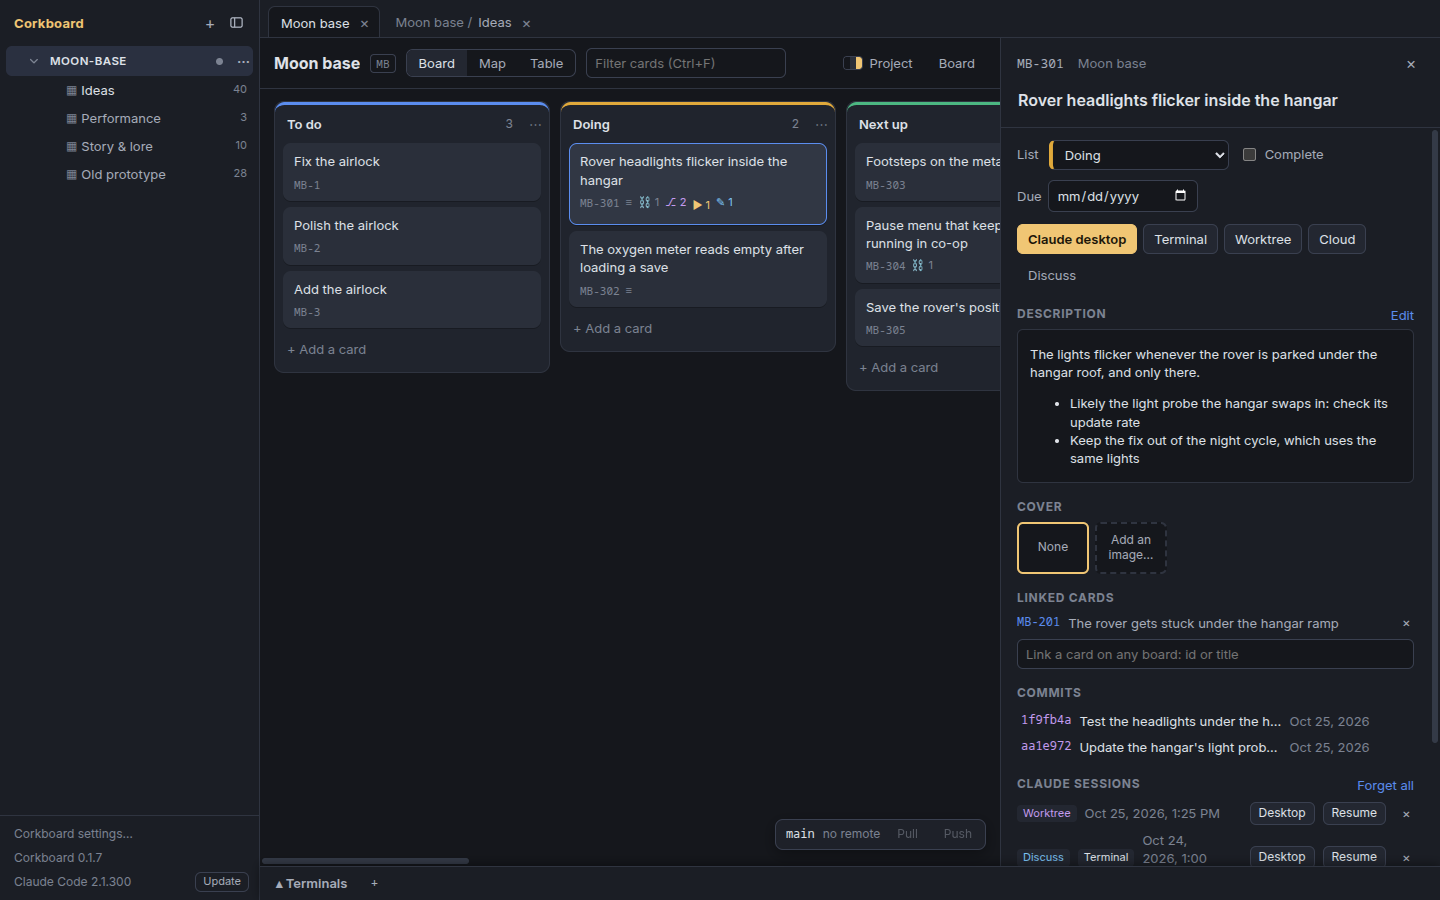
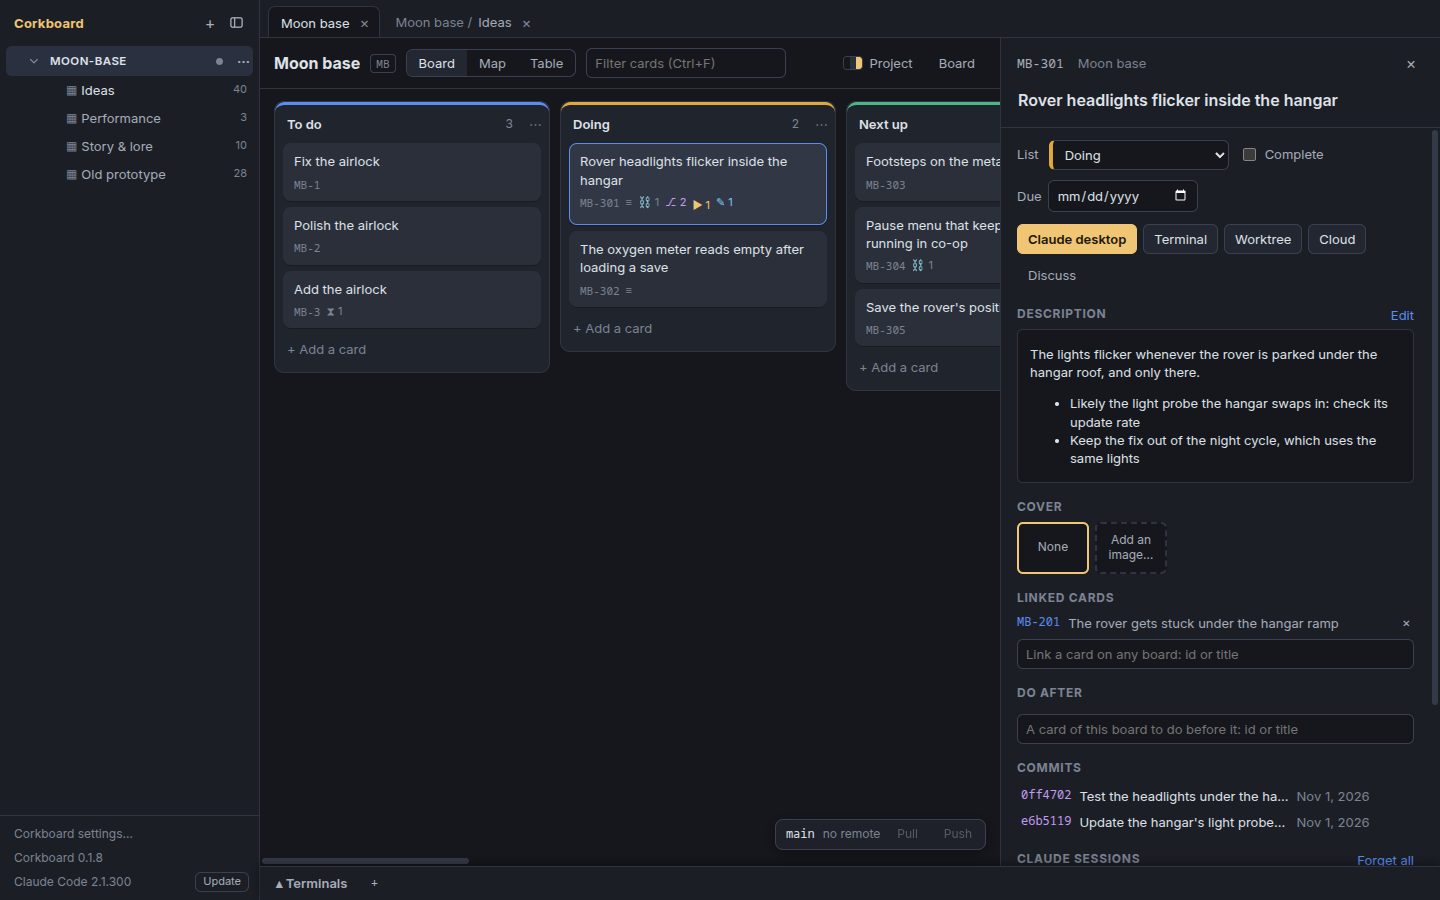
Edit a card's after: in its drawer, and draw the order on the map
The drawer gets *Do after* under the linked cards: the cards of the same board to do before this
one, each with its title and whether it's done, × to take it out, and a picker that offers only
cards of the board and none that waits on this one, since the order would loop. A card waiting on
cards that aren't done shows ⧗ and their number on its face.

The map draws an order as a dashed arrow, in the accent colour, from the card to do first to the
card that waits on it, in place of a link between the same two cards. Deleted, the arrow takes the
order away, one undo step like an unlink.

The screenshots are retaken: the fixture's To do now holds a card that waits on another.

Card: CORK-117

Changed region(s): [[0.6875, 0.7467, 1.0, 0.9644]]

diff --git a/src/renderer/src/components/MapView.tsx b/src/renderer/src/components/MapView.tsx
@@ -305,6 +305,15 @@ function MapCanvas({ board, matches }: { board: LoadedBoard; matches: (c: Card) 
     const ids = new Set(visible.map(c => c.id))
     const seen = new Set<string>()
     const out: Edge[] = []
+    // An order is drawn as an arrow from the card to do first; a link between the same two cards
+    // would lie under it, so the arrow stands for both.
+    for (const card of visible) {
+      for (const first of card.after) {
+        if (!ids.has(first) || first === card.id) continue
+        seen.add([card.id, first].sort().join('~'))
+        out.push({ id: `after:${first}>${card.id}`, source: first, target: card.id, type: 'order' })
+      }
+    }
     for (const card of visible) {
       for (const link of card.links) {
         if (!ids.has(link)) continue
@@ -446,7 +455,7 @@ function MapCanvas({ board, matches }: { board: LoadedBoard; matches: (c: Card) 
           ))}
         <span className="spacer" />
         <span className="muted hint">
-          Double-click: a new card · drag a card's dot onto a card to link it, onto empty space for a new linked card ·
+          Double-click: a new card · drag a card's dot onto a card to link it, onto empty space for a new linked card · dashed arrows: do after ·
           right-click a backdrop to lay it out
         </span>
       </div>
@@ -463,9 +472,15 @@ function MapCanvas({ board, matches }: { board: LoadedBoard; matches: (c: Card) 
           onConnect={(c: Connection) => c.source && c.target && link(c.source, c.target)}
           onConnectEnd={onConnectEnd}
           onEdgesDelete={gone => {
-            // Every link deleted at once is one step, each card patched once.
+            // Every link or order deleted at once is one step, each card patched once.
             const links = new Map<string, string[]>()
+            const after = new Map<string, string[]>()
             for (const edge of gone) {
+              if (edge.type === 'order') {
+                const was = after.get(edge.target) ?? board.cards.find(x => x.id === edge.target)?.after
+                if (was?.includes(edge.source)) after.set(edge.target, was.filter(a => a !== edge.source))
+                continue
+              }
               for (const [a, b] of [
                 [edge.source, edge.target],
                 [edge.target, edge.source],
@@ -474,8 +489,18 @@ function MapCanvas({ board, matches }: { board: LoadedBoard; matches: (c: Card) 
                 if (was?.includes(b)) links.set(a, was.filter(l => l !== b))
               }
             }
-            const label = gone.length === 1 ? `unlink ${gone[0].source} and ${gone[0].target}` : `unlink ${gone.length} pairs`
-            change(label, null, [...links].map(([id, next]) => ({ id, patch: { links: next } })))
+            const one = gone.length === 1 ? gone[0] : undefined
+            const label = !one
+              ? `unlink ${gone.length} pairs`
+              : one.type === 'order'
+                ? `take ${one.target} out of the order after ${one.source}`
+                : `unlink ${one.source} and ${one.target}`
+            const ids = new Set([...links.keys(), ...after.keys()])
+            const patch = (id: string): Partial<Card> => ({
+              ...(links.has(id) ? { links: links.get(id) } : {}),
+              ...(after.has(id) ? { after: after.get(id) } : {}),
+            })
+            change(label, null, [...ids].map(id => ({ id, patch: patch(id) })))
           }}
           onNodeDoubleClick={(_, node) => node.type === 'card' && actions.openCard(board.path, node.id)}
           onNodeClick={(e, node) => {
@@ -643,6 +668,31 @@ function FloatingEdge({ id, source, target, selected }: EdgeProps) {
   )
 }
 
+/** An order: a dashed arrow from the card to do first to the card that waits on it. */
+function OrderEdge({ id, source, target, selected }: EdgeProps) {
+  const s = useInternalNode(source)
+  const t = useInternalNode(target)
+  if (!s || !t) return null
+  const [sx, sy] = borderPoint(s, t)
+  const [tx, ty] = borderPoint(t, s)
+  const [path] = getStraightPath({ sourceX: sx, sourceY: sy, targetX: tx, targetY: ty })
+  const length = Math.hypot(tx - sx, ty - sy) || 1
+  const [ux, uy] = [(tx - sx) / length, (ty - sy) / length]
+  const size = selected ? 11 : 9
+  const head = `M ${tx} ${ty} L ${tx - ux * size - uy * size * 0.55} ${ty - uy * size + ux * size * 0.55} L ${tx - ux * size + uy * size * 0.55} ${ty - uy * size - ux * size * 0.55} Z`
+  return (
+    <>
+      <BaseEdge
+        id={id}
+        path={path}
+        interactionWidth={14}
+        style={{ stroke: 'var(--accent)', strokeWidth: selected ? 2.5 : 1.6, strokeDasharray: '6 4' }}
+      />
+      <path className="order-head" d={head} style={{ fill: 'var(--accent)' }} />
+    </>
+  )
+}
+
 function borderPoint(node: InternalNode, other: InternalNode): [number, number] {
   const w = (node.measured.width ?? NODE_W) / 2
   const h = (node.measured.height ?? 50) / 2
@@ -658,4 +708,4 @@ function borderPoint(node: InternalNode, other: InternalNode): [number, number] 
 }
 
 const NODE_TYPES = { card: CardNodeView, area: AreaNodeView }
-const EDGE_TYPES = { floating: FloatingEdge }
+const EDGE_TYPES = { floating: FloatingEdge, order: OrderEdge }

diff --git a/src/renderer/src/components/CardDetail.tsx b/src/renderer/src/components/CardDetail.tsx
@@ -7,6 +7,8 @@ import { cardImages, imageUrl, insertAt } from '@shared/images'
 import { imageFiles, saveImage, saveImages } from '../images'
 import { discussCards, tackleCards } from '../tackle'
 import { normalizeKey } from '@shared/project'
+import { isDivider } from '@shared/cardfile'
+import { findCycle } from '@shared/tackleorder'
 import { actions, api, commitsFor, listColor, localTime, projectIdOf, useStore } from '../state'
 import { openContextMenu } from './ContextMenu'
 
@@ -340,6 +342,44 @@ function Drawer({ board, card }: { board: LoadedBoard; card: Card }) {
           />
         </section>
 
+        <section className="after-section">
+          <h3>Do after</h3>
+          <div className="links">
+            {card.after.map(id => {
+              const before = board.cards.find(c => c.id === id)
+              const done = !!before && (before.complete || (!!board.meta.flow?.done && before.list === board.meta.flow.done))
+              return (
+                <span key={id} className={`link-chip${done ? ' done' : ''}`}>
+                  <button className="link" onClick={() => before && actions.openCard(board.path, id)}>
+                    {id}
+                  </button>
+                  <span className="link-title">
+                    {before?.title ?? 'not on this board'}
+                    {done && <span className="muted"> · done</span>}
+                  </span>
+                  <button
+                    className="icon-button small"
+                    aria-label={`Not after ${id}`}
+                    onClick={() => save({ after: card.after.filter(a => a !== id) })}
+                  >
+                    ×
+                  </button>
+                </span>
+              )
+            })}
+          </div>
+          <LinkPicker
+            placeholder="A card of this board to do before it: id or title"
+            menuFocus={false}
+            index={board.cards
+              // Never one already there, nor one that waits on this card: that order would loop.
+              .filter(c => c.id !== card.id && !c.archived && !isDivider(c) && !card.after.includes(c.id))
+              .filter(c => !findCycle(board.cards.map(x => (x.id === card.id ? { id: x.id, after: [...card.after, c.id] } : x))))
+              .map(c => ({ id: c.id, title: c.title, boardPath: board.path, boardTitle: board.meta.title }))}
+            onPick={id => save({ after: [...card.after, id] })}
+          />
+        </section>
+
         <section>
           <h3>Commits</h3>
           {commits.length ? (
@@ -534,16 +574,27 @@ async function openLinked(id: string, entry?: IndexEntry) {
   actions.openCard(entry.boardPath, id)
 }
 
-function LinkPicker({ index, onPick }: { index: IndexEntry[]; onPick: (id: string) => void }) {
+function LinkPicker({
+  index,
+  onPick,
+  placeholder = 'Link a card on any board: id or title',
+  menuFocus = true,
+}: {
+  index: IndexEntry[]
+  onPick: (id: string) => void
+  placeholder?: string
+  /** Whether the card menu's *Link to a card* focuses it: the links' picker, not the order's. */
+  menuFocus?: boolean
+}) {
   const [query, setQuery] = useState('')
   const focusLinks = useStore(s => s.focusLinks)
   const input = useRef<HTMLInputElement>(null)
   useEffect(() => {
-    if (focusLinks) {
+    if (focusLinks && menuFocus) {
       input.current?.scrollIntoView({ block: 'center' })
       input.current?.focus()
     }
-  }, [focusLinks])
+  }, [focusLinks, menuFocus])
   const q = query.trim().toLowerCase()
   const hits = q
     ? index.filter(e => e.id.toLowerCase().includes(q) || e.title.toLowerCase().includes(q)).slice(0, 8)
@@ -553,7 +604,7 @@ function LinkPicker({ index, onPick }: { index: IndexEntry[]; onPick: (id: strin
       <input
         ref={input}
         type="search"
-        placeholder="Link a card on any board: id or title"
+        placeholder={placeholder}
         value={query}
         onChange={e => setQuery(e.target.value)}
         onKeyDown={e => {

diff --git a/src/renderer/src/components/KanbanView.tsx b/src/renderer/src/components/KanbanView.tsx
@@ -37,6 +37,7 @@ import { between, freezeListColors, isDivider, listSort, reorderLists, slugify }
 import { dueDay, isOverdue } from '@shared/due'
 import { imageUrl } from '@shared/images'
 import { boardColumns, boardOrder, UNLISTED, type Columns } from '@shared/selection'
+import { unmetPrerequisites } from '@shared/tackleorder'
 import type { Card, CodeCommit, ListDef, LoadedBoard } from '@shared/types'
 import { useGrabScroll } from '../grabScroll'
 import { cardMenu, listMenu } from '../menus'
@@ -794,6 +795,7 @@ export function CardFace({
   const running = finished ? 0 : card.sessions.filter(s => s.purpose !== 'discuss').length
   const talks = finished ? 0 : card.sessions.filter(s => s.purpose === 'discuss').length
   const late = isOverdue(card.due, finished)
+  const waitsOn = finished ? [] : (unmetPrerequisites([card], board.cards, board.meta.flow?.done)[0]?.needs ?? [])
   return (
     <div
       className={`card${selected ? ' selected' : ''}${open ? ' open' : ''}${dragging ? ' dragging' : ''}${card.complete ? ' complete' : ''}${renaming ? ' renaming' : ''}`}
@@ -821,6 +823,11 @@ export function CardFace({
         {card.complete && <span className="badge ok" title="Marked complete">✓</span>}
         {card.body.trim() && <span className="badge" title="Has a description">≡</span>}
         {card.links.length > 0 && <span className="badge" title="Linked cards">⛓ {card.links.length}</span>}
+        {waitsOn.length > 0 && (
+          <span className="badge waits" title={`Waits on ${waitsOn.join(', ')}, not done yet`}>
+            ⧗ {waitsOn.length}
+          </span>
+        )}
         {linked > 0 && <span className="badge commit" title="Commits naming this card">⎇ {linked}</span>}
         {running > 0 && <span className="badge session" title="Claude sessions started for it">▶ {running}</span>}
         {talks > 0 && <span className="badge discuss" title="Discussions about it">✎ {talks}</span>}

diff --git a/docs/using.md b/docs/using.md
@@ -32,6 +32,8 @@ Cards are Markdown files (`cards/<ID>.md`: YAML front matter, then the descripti
 
 *Due* in a card's drawer, beside *List* and *Complete*, sets its due date (`due: 2026-11-02`) and × clears it; a time written there by hand stays until the date is changed. The card's face shows it as ⏰, in the danger colour once the day is past and the card isn't done (complete, or in the board's done list).
 
+*Do after*, under the drawer's linked cards, names the cards of the same board to be done before this one (`after: [MB-9]`): pick one by id or title (a card that waits on this one isn't offered, since the order would loop), × takes it out, and one already done says so. A card waiting on cards that aren't done shows ⧗ and their number on its face. A tackle of several cards follows the order (see [Tackling](tackling.md#tackle)).
+
 A link in a card's description opens in the browser; the app's window never leaves the boards for a page, and a link that isn't a web page (a relative path, `file:`) does nothing.
 
 Paste an image (a screenshot from the clipboard) into a card's description while editing it, or drop image files on it, and the app saves it beside the card (`cards/<ID>/`) and puts `![](…)` where the cursor is; dropped on the description while it shows, it goes at the end. One over 1 MB is scaled down to fit first, and the app says so. Under *Cover* the drawer offers a card's images: the one picked shows across the top of the card on the board (cropped to 140 px tall; the map and the table leave it out), and *None* takes it off. *Add an image…* there picks an image file and makes it the cover without putting it in the description, saved beside the card and scaled down like a pasted one.
@@ -50,7 +52,7 @@ Lists as columns, drag and drop. Ctrl-click a card to add it to the selection or
 
 ![The map view](images/map.png)
 
-A free canvas: cards are nodes, `links` are the lines between them. Every list has a backdrop its cards sit on, dragged by its header (its cards come along) and resized from its corners; a backdrop grows to hold every card of its list, even one dropped outside it or added from elsewhere (only *Fit to its cards* shrinks it); dropping a card on another list's backdrop moves it to that list. Right-click a backdrop for *Automatically lay out* (its cards in columns inside it), *Fit to its cards*, *Add a card here*.
+A free canvas: cards are nodes, `links` are the lines between them, and an order (`after:`) is a dashed arrow from the card to do first to the card that waits on it, drawn in place of a link between the same two cards; selected and deleted, an arrow takes the order away. Every list has a backdrop its cards sit on, dragged by its header (its cards come along) and resized from its corners; a backdrop grows to hold every card of its list, even one dropped outside it or added from elsewhere (only *Fit to its cards* shrinks it); dropping a card on another list's backdrop moves it to that list. Right-click a backdrop for *Automatically lay out* (its cards in columns inside it), *Fit to its cards*, *Add a card here*.
 
 Double-click opens a title input for a new card (in the backdrop under it, else an idea with no list); dragging a card's dot onto another card links them, onto empty space opens the input for a new card linked from it; Escape or an empty title adds nothing. Ctrl+Z undoes what was done on the map (moves, resizes, the layouts, hiding a list, links made or deleted, a card dropped on another list), Ctrl+Shift+Z or Ctrl+Y redoes it, while the app runs; a card or a position changed elsewhere since is left as it is, and a card made there stays (archive it). Positions and backdrops are kept in `map.json`.
 
